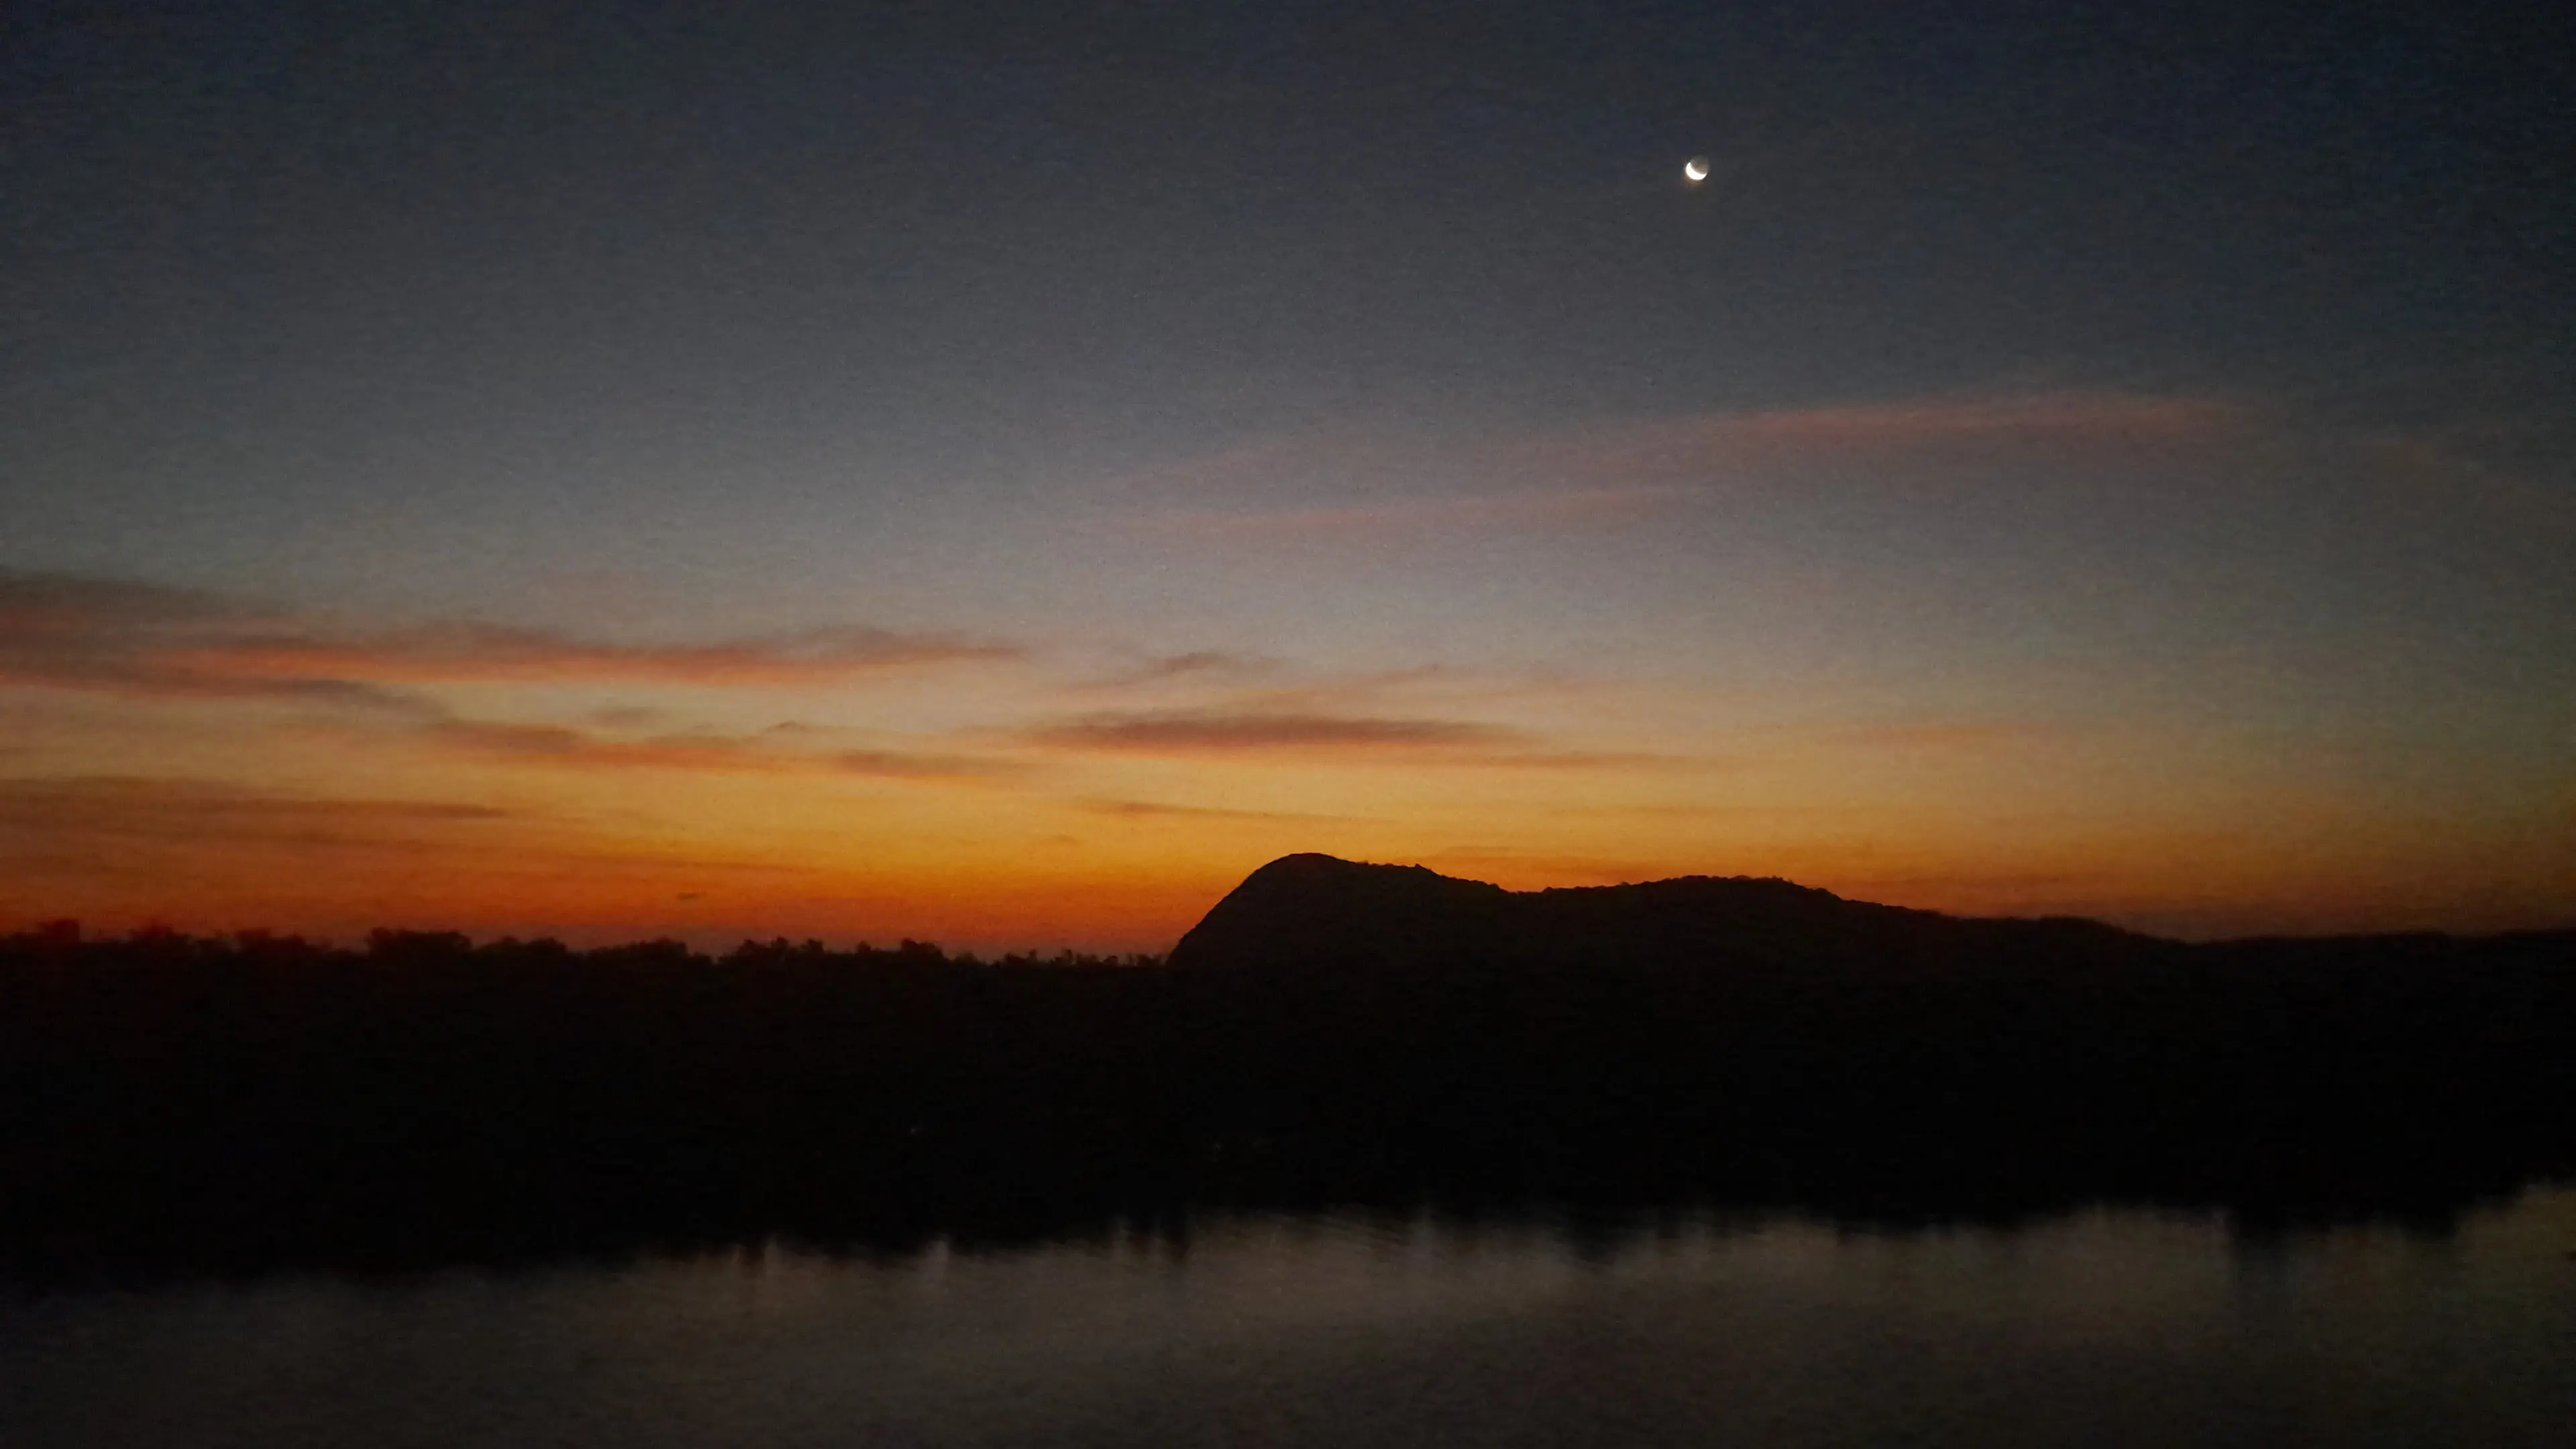
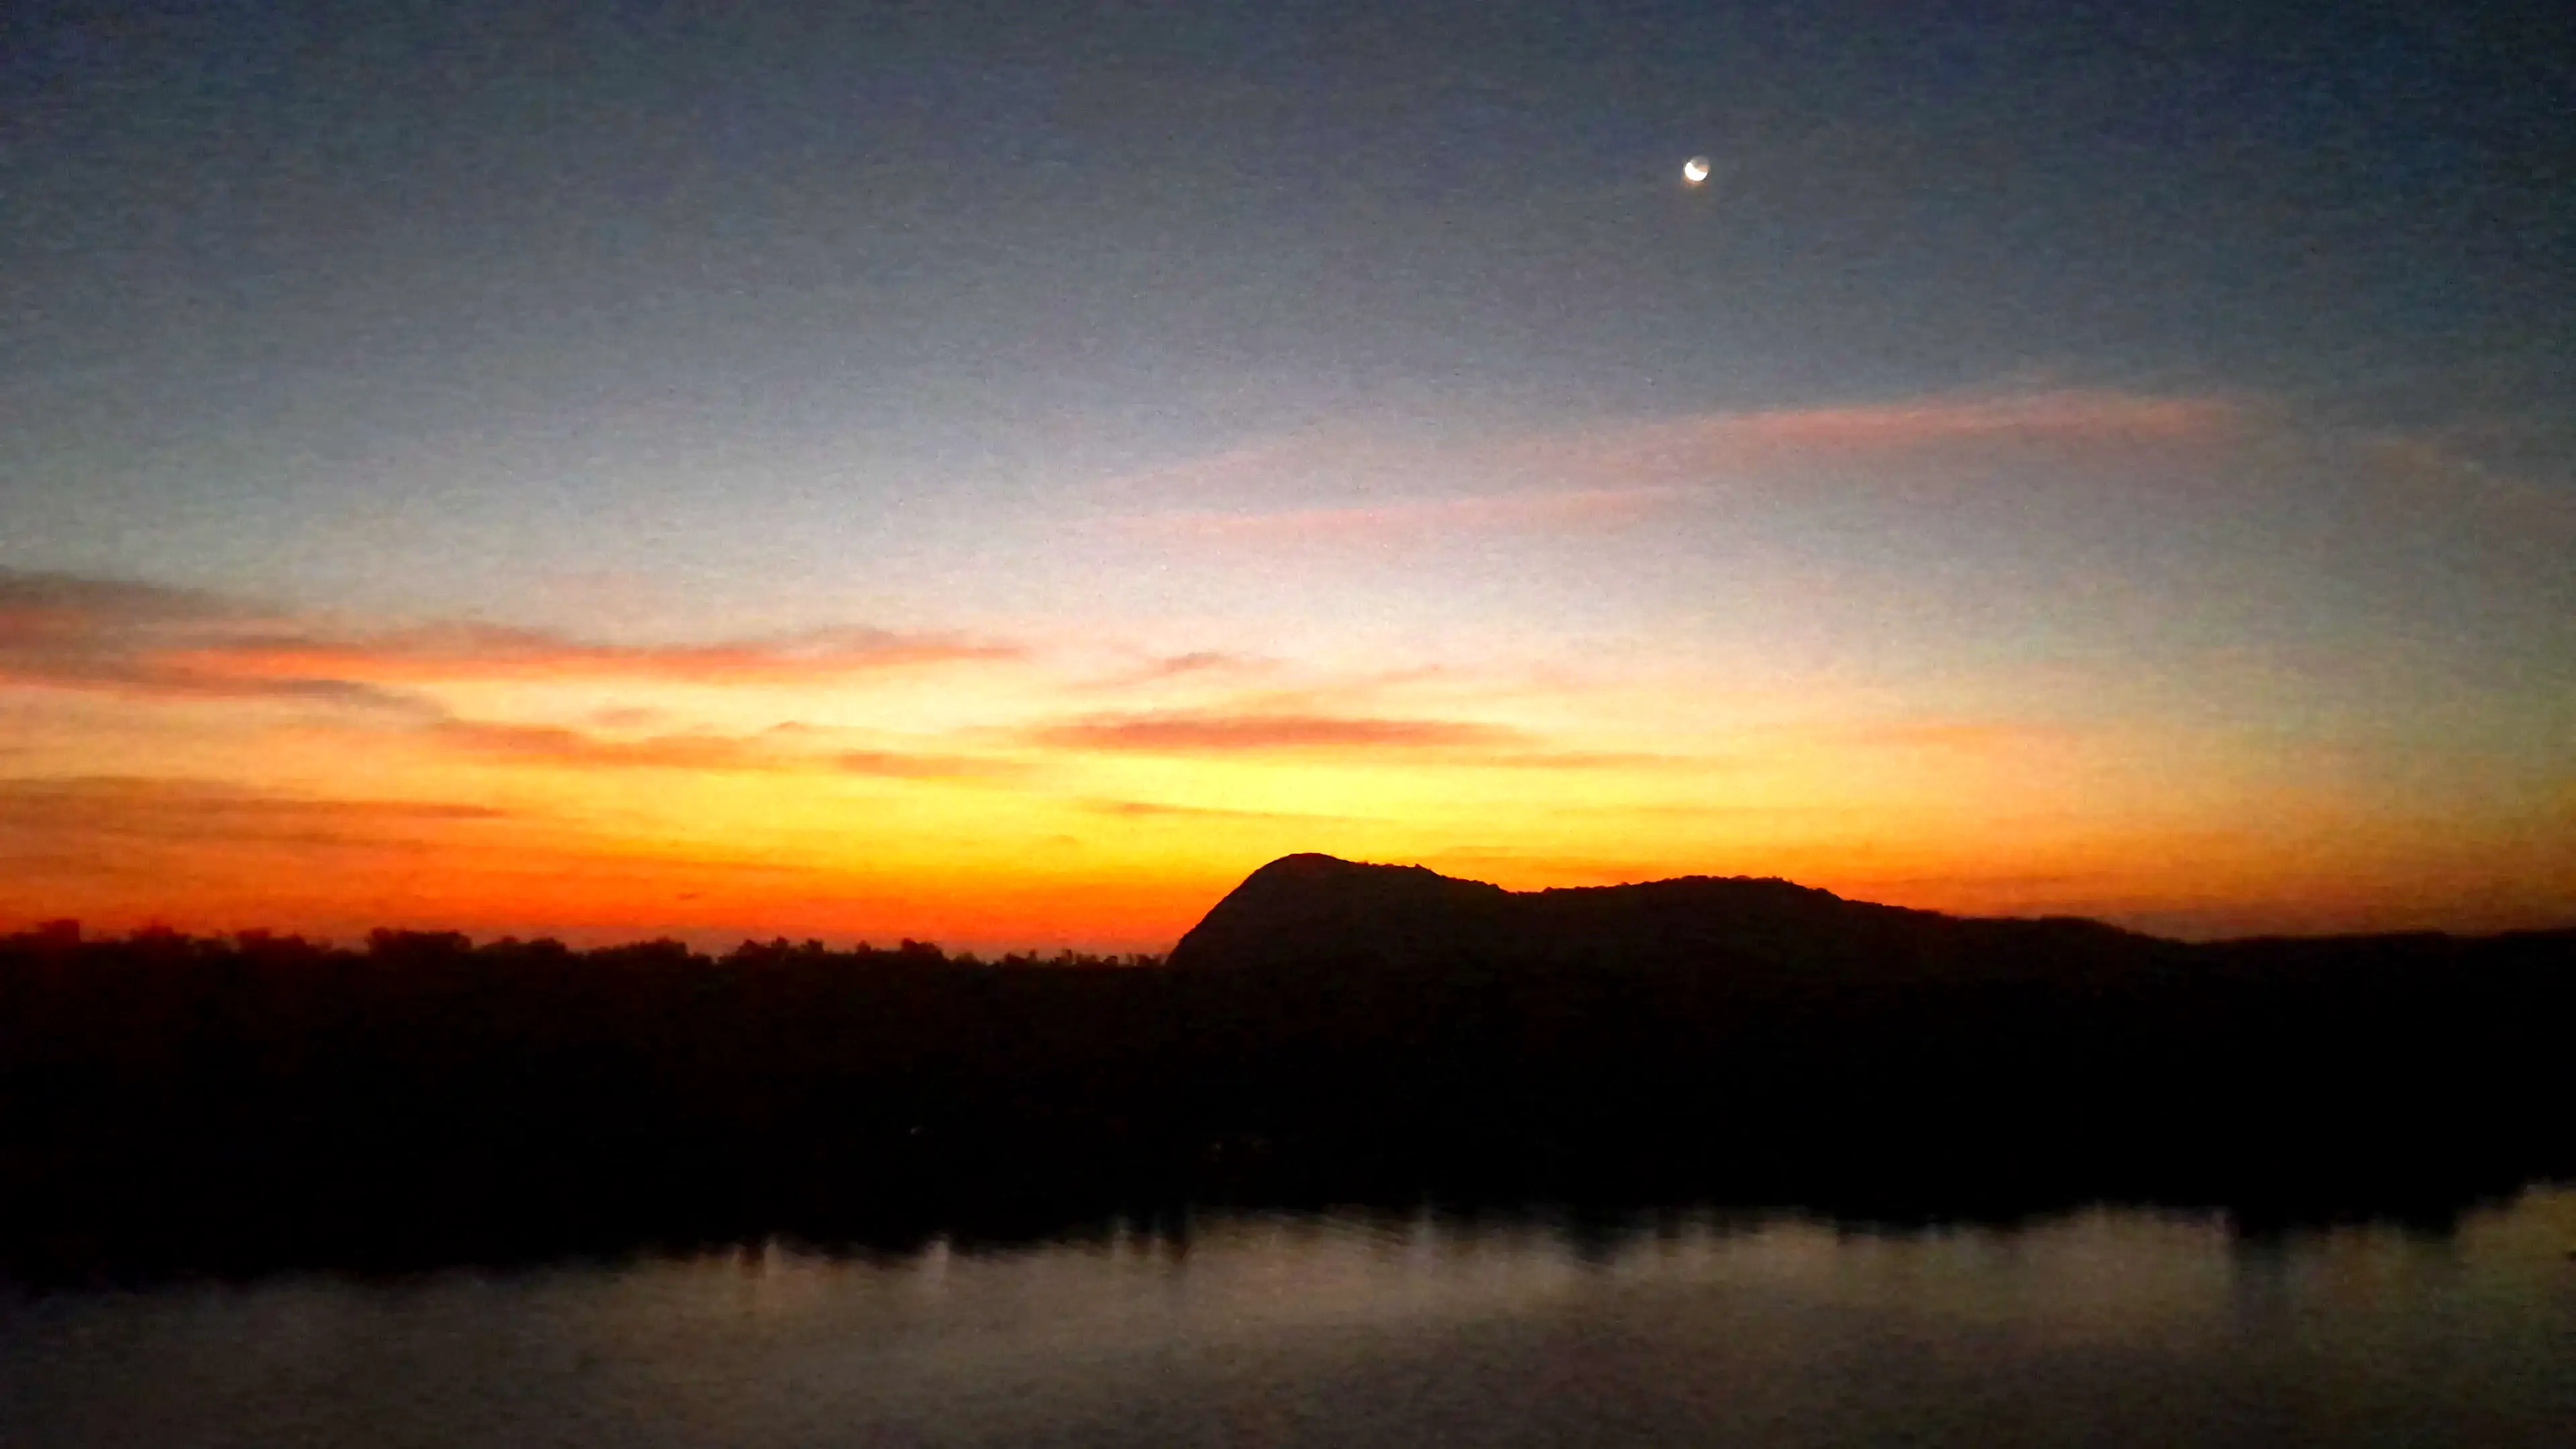
Homepage hero: add five photos to the slideshow, light colour pass on all eight
Claude-Session: https://claude.ai/code/session_01VX1CsNVSnvEj918XZ42krN

diff --git a/index.md b/index.md
@@ -374,16 +374,41 @@ body-class: homepage
     fetchpriority="high"
     class="hero-slide active"
     data-caption="Isla de la Juventud, Cuba.">
+    <img src="/assets/img/american-cemetery-cross.webp" alt=""
+    width="1920" height="1080"
+    loading="lazy" fetchpriority="low"
+    class="hero-slide"
+    data-caption="One of the island&#39;s American cemeteries.">
     <img src="/assets/img/presidio-modelo.webp" alt=""
     width="1920" height="1080"
     loading="lazy" fetchpriority="low"
     class="hero-slide"
     data-caption="The Presidio Modelo, begun 1926.">
+    <img src="/assets/img/wetlands.webp" alt=""
+    width="1920" height="1080"
+    loading="lazy" fetchpriority="low"
+    class="hero-slide"
+    data-caption="Isla de la Juventud, Cuba.">
+    <img src="/assets/img/museo-municipal.webp" alt=""
+    width="1920" height="1080"
+    loading="lazy" fetchpriority="low"
+    class="hero-slide"
+    data-caption="Museo Municipal, Nueva Gerona.">
     <img src="/assets/img/pine-forest.webp" alt=""
     width="1920" height="1080"
     loading="lazy" fetchpriority="low"
     class="hero-slide"
     data-caption="The pine forests that cover the Isla de la Juventud.">
+    <img src="/assets/img/american-cemetery-rows.webp" alt=""
+    width="1920" height="1080"
+    loading="lazy" fetchpriority="low"
+    class="hero-slide"
+    data-caption="One of the island&#39;s American cemeteries.">
+    <img src="/assets/img/sierra-farm.webp" alt=""
+    width="1920" height="1080"
+    loading="lazy" fetchpriority="low"
+    class="hero-slide"
+    data-caption="Isla de la Juventud, Cuba.">
     <div class="hero-overlay"></div>
     <div class="hero-caption" id="heroCaption"></div>
   </div>
